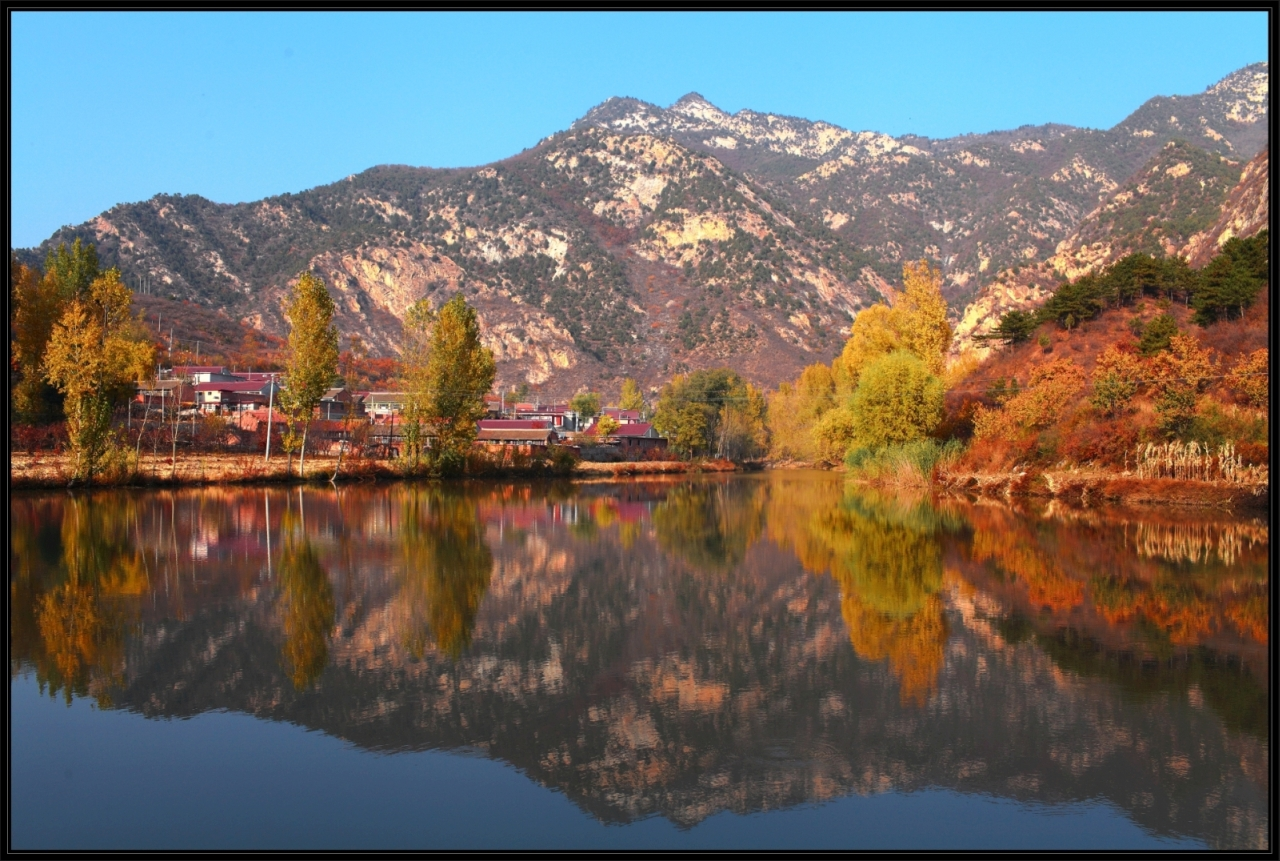
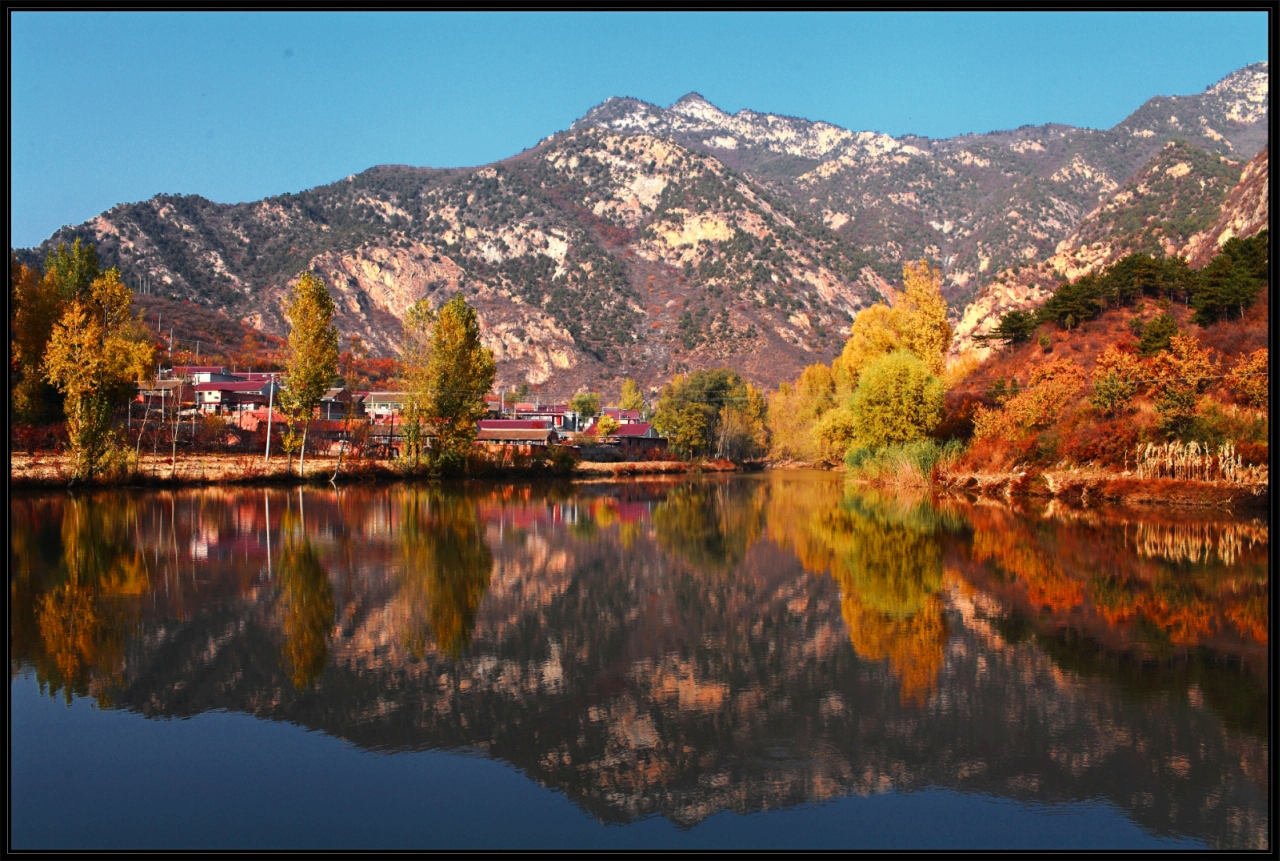
修整照片

Changed region(s): [[0.0, 0.0, 1.0, 0.302], [0.0, 0.8153, 0.4062, 0.9663], [0.625, 0.9059, 0.875, 0.9965]]

diff --git a/_posts/2014-09-03-tamude.md b/_posts/2014-09-03-tamude.md
@@ -4,7 +4,7 @@ layout: post
 tags: 
     - Read
 ---
-作者：「美」塔尔莱塔・赫里姆    邹文豪（译）
+![](/pic/2014/9-3/1/2.jpg)
 
 最近读了《塔木德——犹太人的经商智慧与处事圣经》，不知是我理解的问题，还是书确实编排有问题，通读之后觉得本书有一些混乱。
 
